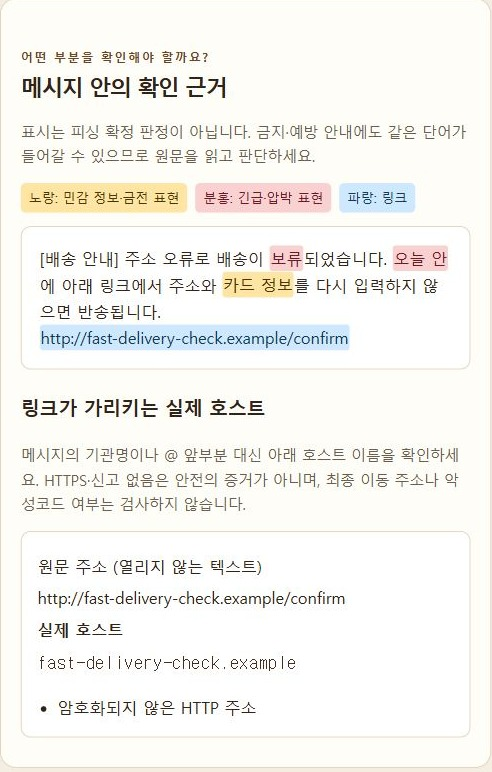
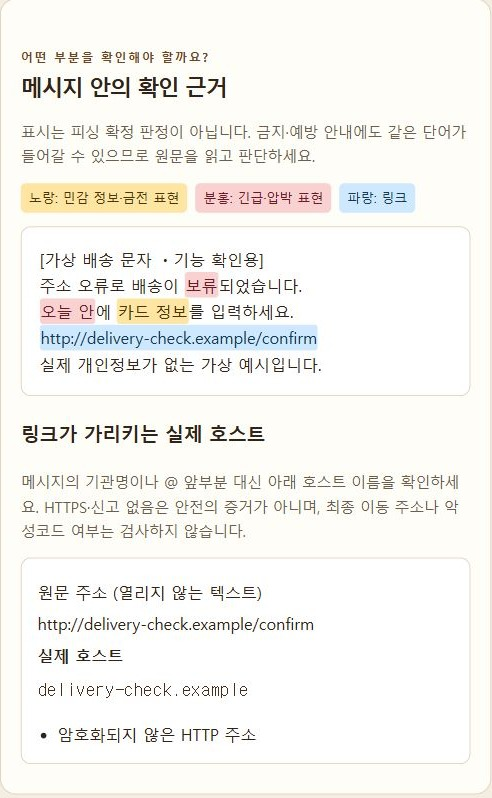
Finalize checkpoint 1 submission documents and deployment evidence

diff --git a/phishing-defender/제출-순서.md b/phishing-defender/제출-순서.md
@@ -1,0 +1,16 @@
+# 중간 점검 1차 제출 순서
+
+1. ‘나의 프로젝트 목표’ 화면의 네 입력란에 목표-입력문구.md의 한 줄 소개·누구를 위한 것인가·핵심 기능 3가지·완성의 기준을 각각 붙여 넣고 목표를 저장합니다.
+2. 같은 화면의 ‘계획 설계서 · plan.md’에서 plan.md를 선택한 뒤 ‘새 버전 저장’을 누릅니다. 이번 파일은 중간 점검 1차 기준 v1입니다.
+3. ‘중간 점검 1차’에서 SUBMISSION-1.md의 항목별 본문을 해당 칸에 붙여 넣습니다. ‘확인하는 방법’은 세 단계로 작성되어 있습니다.
+4. 결과물 URL과 소스 저장소 URL을 각각 해당 칸에 붙여 넣습니다.
+5. 제출 파일로 VERIFICATION-1.md와 evidence 폴더의 캡처 3장을 선택합니다. 재현용 이미지가 필요하면 examples/delivery-demo.png도 함께 선택합니다. plan.md는 계획 업로드 영역에 올리고 필요할 때만 제출 첨부에도 추가합니다.
+6. 본인이 결과물을 사용해 보고 AI와 본인의 역할 설명이 실제 경험과 맞는지 검토한 뒤 ‘중간 점검 1차 제출’을 누릅니다.
+
+## 결과물 URL
+https://ejdehdtjr-afk.github.io/jeong-dongseok-portfolio/phishing-defender/
+
+## 소스 저장소 URL
+https://github.com/ejdehdtjr-afk/jeong-dongseok-portfolio/tree/main/phishing-defender
+
+첨부는 가상 데이터와 기능 동작 증빙입니다. 실제 피해 사례나 사용자 효과 검증으로 쓰지 않습니다. 이번 제출물에는 아직 구현하지 않은 2차·최종 기능을 완료했다고 적지 않았습니다.

diff --git a/phishing-defender/plan.md b/phishing-defender/plan.md
@@ -78,8 +78,8 @@
 - [x] 위험 관련 표현·링크와 실제 호스트의 확인 근거를 볼 수 있다.
 - [x] 입력 수정 시 기존 결과와 점검 선택이 초기화된다.
 - [x] 자동 분석 로직 테스트 8개가 통과한다.
-- [ ] 이미지 취소·빈 입력·잘못된 파일·좁은 화면 검증 결과를 최종 기록한다.
-- [ ] 공개 배포 결과를 확인하고 1차 제출문·증빙을 확정한다.
+- [x] 이미지 취소·빈 입력·잘못된 파일·좁은 화면 검증 결과를 기록했다.
+- [x] 공개 배포 주소에서 글자 인식·근거 표시를 확인하고 1차 제출문·증빙을 확정했다.
 
 별도 사용자 사용성 조사나 탐지 정확도 향상을 입증한 단계는 아니다. 이번 검증은 기능 동작 확인이다.
 
